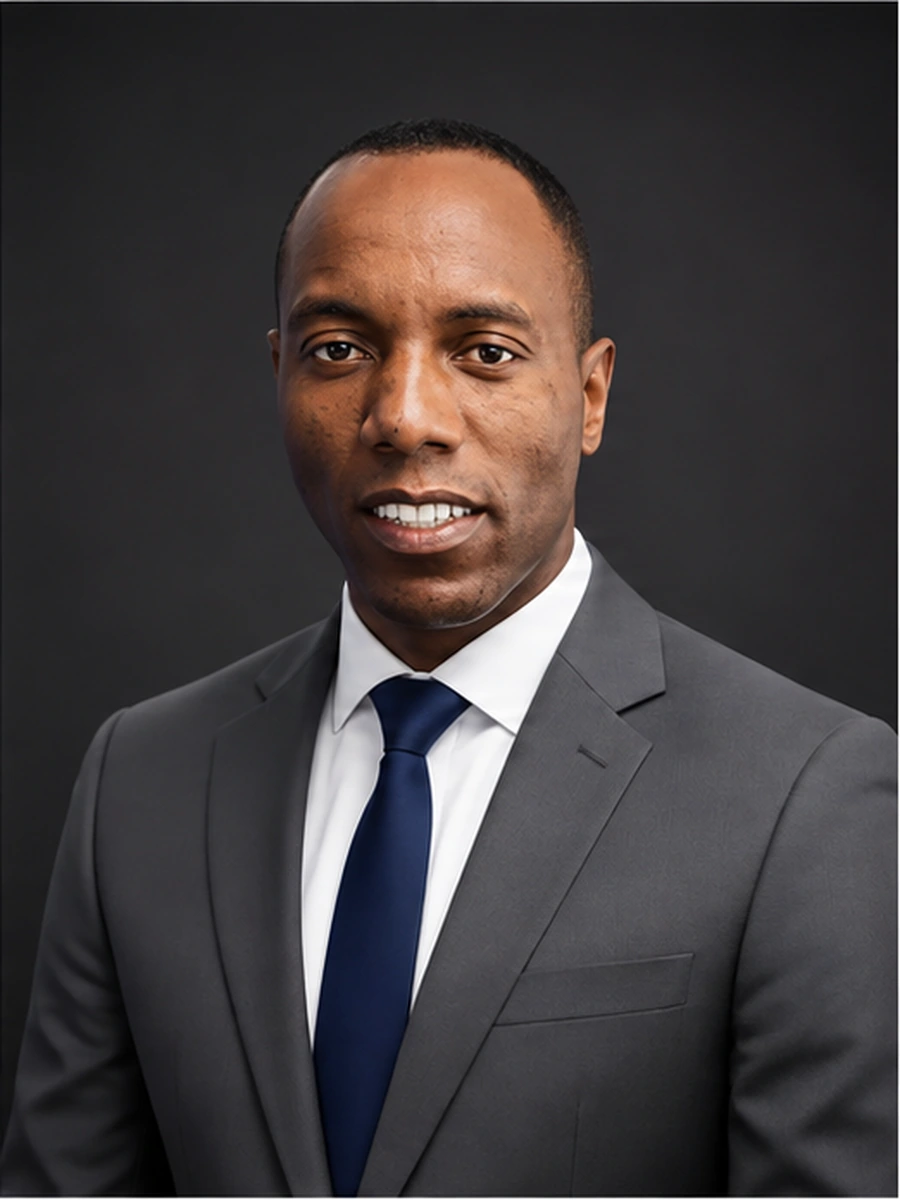
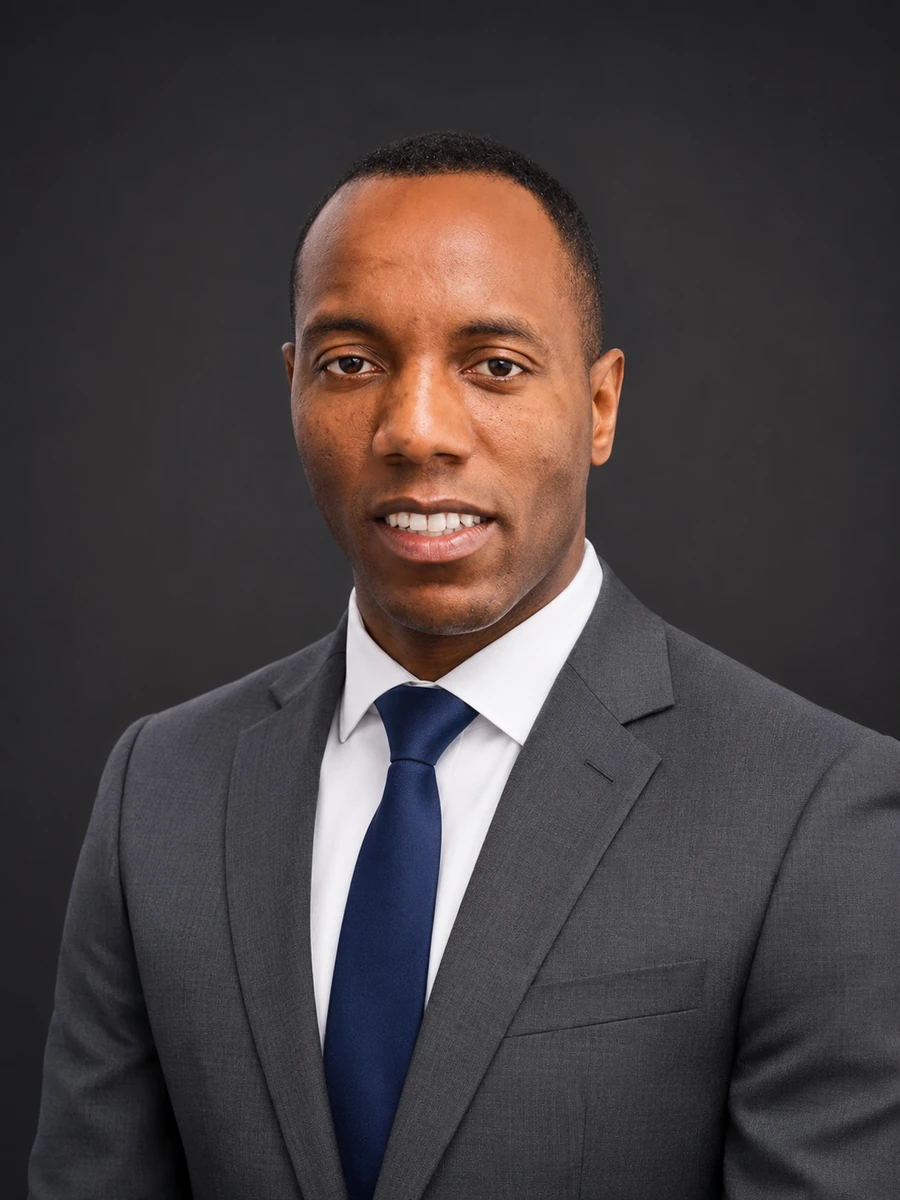
Shorten Gilbert’s bio and refresh Maxwell’s portrait.

diff --git a/script.js b/script.js
@@ -190,7 +190,7 @@ const copy = {
     bio_samarantha:
       "Advocate of the High Court for Zambia. LLB and Master of Arts in Development Studies (Cavendish University). More than five years in corporate advisory, legal compliance, contract management, labour advisory and litigation support.",
     bio_gilbert:
-      "Advocate of the High Court for Zambia, with audience in all Superior Courts. LLB; LLM in Environmental Law; presently pursuing a postgraduate diploma in Risk Management. More than twenty years in government and private practice across criminal law, civil litigation, corporate governance and regulatory compliance. Complex contracts, high-profile litigation and compliance work.",
+      "Advocate of the High Court for Zambia. LLB; LLM in Environmental Law; presently pursuing a postgraduate diploma in Risk Management. More than twenty years in government and private practice across criminal law, civil litigation, corporate governance and compliance.",
     bio_maxwell:
       "Advocate of the High Court for Zambia. Public health specialist and trade unionist; formerly President of EPHUZ and presently Vice President of UHAWUZ. LLB (ZAOU); Diploma in Environmental Health Sciences (Evelyn Hone College).",
     footer_rights: "Sepo Legal Practitioners. All rights reserved.",
@@ -302,7 +302,7 @@ const copy = {
     bio_samarantha:
       "Advocate wa High Court ya Zambia. LLB ndi Master of Arts ya Development Studies (Cavendish University). Zaka zoposa zisanu mu upangiri wa makampani, kugwirizana ndi malamulo, kayendedwe ka makontrakiti, labour ndi thandizo la milandu.",
     bio_gilbert:
-      "Advocate wa High Court ya Zambia, ndi ufulu wa kuyimba m’makhoti onse apamwamba. LLB; LLM ya Environmental Law; pakali pano akupanga postgraduate diploma ya Risk Management. Zaka zoposa makumi awiri mu boma ndi ntchito yachinsinsi, kuphatikizapo criminal law, civil litigation, corporate governance ndi regulatory compliance. Makontrakiti ovuta, milandu yaikulu ndi ntchito ya compliance.",
+      "Advocate wa High Court ya Zambia. LLB; LLM ya Environmental Law; pakali pano akupanga postgraduate diploma ya Risk Management. Zaka zoposa makumi awiri mu boma ndi ntchito yachinsinsi pa criminal law, civil litigation, corporate governance ndi compliance.",
     bio_maxwell:
       "Advocate wa High Court ya Zambia. Katswiri wa umoyo wa anthu ndi trade unionist; kale Purezidenti wa EPHUZ ndipo panopa Wachiwiri kwa Purezidenti wa UHAWUZ. LLB (ZAOU); Diploma ya Environmental Health Sciences (Evelyn Hone College).",
     footer_rights: "Sepo Legal Practitioners. Ufulu wonse wasungidwa.",
@@ -414,7 +414,7 @@ const copy = {
     bio_samarantha:
       "Advocate wa High Court ya Zambia. LLB ne Master of Arts ya Development Studies (Cavendish University). Imyaka iingi iya konsa mu ubufundo bwa amakampani, ukukonka ifunde, ukutungulula amakontrakiti, labour no kwafwilisha imilandu.",
     bio_gilbert:
-      "Advocate wa High Court ya Zambia, ne nsambu shakwimba mu makoti yonse ayakalamba. LLB; LLM ya Environmental Law; nomba alebomba postgraduate diploma ya Risk Management. Imyaka iingi iya makumi yabili mu govamente ne milimo ya cinecine, ukupatulapo criminal law, civil litigation, corporate governance ne regulatory compliance. Amakontrakiti ayakalamba, imilandu ikalamba ne milimo ya compliance.",
+      "Advocate wa High Court ya Zambia. LLB; LLM ya Environmental Law; nomba alebomba postgraduate diploma ya Risk Management. Imyaka iingi iya makumi yabili mu govamente ne milimo ya cinecine pa criminal law, civil litigation, corporate governance ne compliance.",
     bio_maxwell:
       "Advocate wa High Court ya Zambia. Ubukankala bwa umoyo wa bantu ne trade unionist; kale Purezidenti wa EPHUZ kabili nomba Wachibili ku Purezidenti wa UHAWUZ. LLB (ZAOU); Diploma ya Environmental Health Sciences (Evelyn Hone College).",
     footer_rights: "Sepo Legal Practitioners. Nsambu shonse shasungwa.",

diff --git a/index.html b/index.html
@@ -470,7 +470,7 @@
                     <p data-i18n="role_senior_associate">Senior Associate</p>
                   </div>
                   <p class="person-bio" data-i18n="bio_gilbert">
-                    Advocate of the High Court for Zambia, with audience in all Superior Courts. LLB; LLM in Environmental Law; presently pursuing a postgraduate diploma in Risk Management. More than twenty years in government and private practice across criminal law, civil litigation, corporate governance and regulatory compliance. Complex contracts, high-profile litigation and compliance work.
+                    Advocate of the High Court for Zambia. LLB; LLM in Environmental Law; presently pursuing a postgraduate diploma in Risk Management. More than twenty years in government and private practice across criminal law, civil litigation, corporate governance and compliance.
                   </p>
                   <div class="person-links">
                     <a href="https://www.linkedin.com/in/gilbert-sianga-6a29342a7/" aria-label="Gilbert on LinkedIn" target="_blank" rel="noopener noreferrer">
